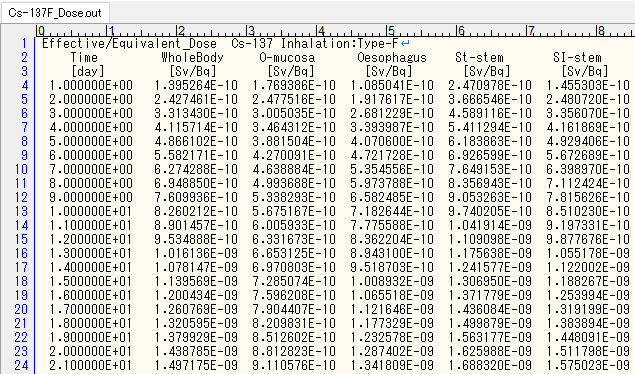
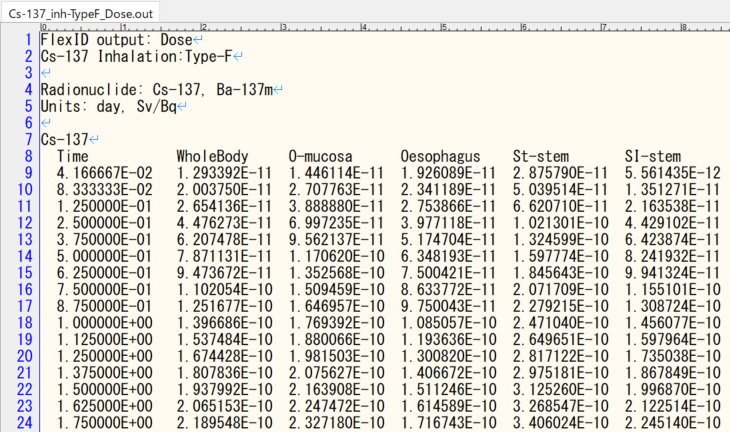
doc: 添付資料5、出力ファイルの仕様に関する記述を更新

diff --git a/docs/UserManual_Appendix-5.md b/docs/UserManual_Appendix-5.md
@@ -2,87 +2,69 @@
 
 # 1. 出力ファイルの仕様
 
-FlexIDの各出力ファイルの仕様を示す。
+FlexIDによって出力されるファイルの仕様を示す。
 
-## ① 実効線量/等価線量出力（Cs-137 F(入力画面「Output File Path」で指定)_Dose.out）
+## 1.1 計算結果出力ファイル
 
-時系列の実効線量及び臓器/組織ごとの等価線量を出力する。出力内容を表1に、出力サンプルを図1に示す。
+時系列のコンパートメントごとの計算結果を出力する。拡張子は`*.out`。ファイルの先頭部分は表1に示す構造を持つ。
 
-表1 出力内容(実効線量/等価線量出力ファイル)
+表1 出力ファイルの先頭部分
 
 |行番号|出力項目|備考|
 |--|--|--|
-|1行目|タイトル行|デフォルト表示：Effective/Equivalent_Dose<br>ユーザー選択核種：Cs-137<br>ユーザー指定：Inhalation:Type-F<br>（インプットファイルの1行目「摂取経路/化学形態等」の入力指定）|
-|2行目|臓器/組織の名称|
-|3行目|出力単位|
-|4行目以降|(1列目)摂取後経過時間\[day]<br>(2列目)実効線量<br>(3列目以降)臓器ごとの等価線量|子孫核種が存在する場合は、親核種と子孫核種の合算値を出力する。|
+|1行目|ヘッダー行|固定文字列`FlexID output:` + ファイル種別|
+|2行目|タイトル行|インプットの`title`セクションに記述された文字列|
+|3行目|空行|
+|4行目|対象核種|固定文字列`Radionuclide:` + インプットの`nuclide`セクションに記述された核種|
+|5行目|出力単位|固定文字列`Units: ` + 出力時間メッシュと出力数値の単位|
+|6行目|空行|
+
+内容については1行目の「ファイル種別」に応じて表2に示す4つの種類がある。
+
+表2 出力ファイルの種別
+
+|ファイル種別|出力項目|ファイル名末尾
+|--|--|--|
+|`Dose`|臓器/組織ごとの実効線量及び等価線量|`_Dose.out`|
+|`DoseRate`|臓器/組織ごとの実効線量率及び等価線量率|`_DoseRate.out`|
+|`RetentionActivity`|コンパートメントごとの残留放射能|`_Retention.out`|
+|`CumulativeActivity`|コンパートメントごとの累積放射能|`_Cumulative.out`|
+
+計算結果は7行目以降に出力される。
+
+なお、4行目の対象核種にて子孫核種が列挙されている場合、`Dose`と`DoseRate`では親核種と子孫核種の合算値を出力したものを親核種の計算結果として出力し、`RetentionActivity`と`CumulativeActivity`では親と子孫それぞれの核種ごとに計算結果を出力する。核種毎の出力は表3に示す構造を持つ。
+
+表3 出力ファイルの計算結果部分
+
+|行位置|出力項目|
+|--|--|
+|1行目|核種名|
+|2行目|1列目:`Time`、2列目以降:各コンパートメントの名称|
+|3行目以降|1列目:出力時間メッシュの終端、2列目以降:各コンパートメントの計算結果|
+
+FlexIDの各出力ファイルのサンプルを図1～図4に示す。
 
 ![img](images/Figure_A5-1.png)
 
-図1 出力サンプル(実効線量/等価線量出力ファイル)
-
-## ② 実効線量率/等価線量率出力（Cs-137F (入力画面「Output File Path」で指定)_DoseRate.out）
-
-時系列の毎時の実効線量率及び臓器/組織ごとの毎時の等価線量率を出力する。
-
-出力内容を表2に、出力サンプルを図2に示す。
-
-表2 出力内容(実効線量率/等価線量率出力ファイル)
-
-|行番号|出力項目|備考|
-|--|--|--|
-|1行目|タイトル行|デフォルト表示：DoseRate<br>ユーザー選択核種：Cs-137<br>ユーザー指定：Inhalation:Type-F<br>（インプットファイルの1行目「摂取経路/化学形態等」の入力指定）|
-|2行目|臓器/組織の名称|
-|3行目|出力単位|
-|4行目以降|(1列目)摂取後経過時間\[day]<br>(2列目)預託線量率<br>(3列目以降)臓器ごとの等価線量率|子孫核種が存在する場合は、親核種と子孫核種の合算値を出力する。|
+図1 実効線量/等価線量出力ファイルのサンプル
 
 ![img](images/Figure_A5-2.png)
 
-図2 出力サンプル(実効線量率/等価線量率出力ファイル)
-
-## ③ 残留放射能出力（Cs-137 F(入力画面「Output File Path」で指定)_Retention.out）
-
-時系列の臓器ごとの残留放射能を出力する。
-
-出力内容を表3に、出力サンプルを図3に示す。
-
-表3 出力内容(残留放射能出力ファイル)
-
-|行番号|出力項目|備考|
-|--|--|--|
-|1行目|タイトル行|デフォルト表示：Retention<br>ユーザー選択核種：Cs-137<br>ユーザー指定：Inhalation:Type-F<br>（インプットファイルの1行目「摂取経路/化学形態等」の入力指定）|
-|2行目|臓器/組織の名称|
-|3行目|出力単位|
-|4行目以降|(1列目)摂取後経過時間\[day]<br>(2列目以降)臓器ごとの残留放射能|子孫核種が存在する場合は、親核種の計算結果の下方に出力される。|
+図2 実効線量率/等価線量率出力ファイルのサンプル
 
 ![img](images/Figure_A5-3.png)
 
-図3 出力サンプル(残留放射能出力ファイル)
-
-## ④ 積算放射能出力（Cs-137 F(入力画面「Output File Path」で指定)_Cumulative.out）
-
-時系列の臓器ごとの累積放射能を出力する。
-
-出力内容を表4に、出力サンプルを図4に示す。
-
-表4 出力内容(積算放射能出力ファイル)
-
-|行番号|出力項目|備考|
-|--|--|--|
-|1行目|タイトル行|デフォルト表示：CumulativeActivity<br>ユーザー選択核種：Cs-137<br>ユーザー指定：Inhalation:Type-F<br>（インプットファイルの1行目「摂取経路/化学形態等」の入力指定）|
-|2行目|臓器/組織の名称|
-|3行目|出力単位|
-|4行目以降|(1列目)摂取後経過時間\[day]<br>(2列目以降)臓器ごとの積算放射能|子孫核種が存在する場合は、親核種の計算結果の下方に出力される。|
+図3 残留放射能出力ファイルのサンプル
 
 ![img](images/Figure_A5-4.png)
 
-図4 出力サンプル(積算放射能出力ファイル)
+図4 積算放射能出力ファイルのサンプル
 
-## ⑤ 計算ログ出力
+## 1.2 計算ログ出力ファイル
 
 FlexIDによる計算処理に伴う各種のエコーバックを出力する。
 
-現在は、核種毎に計算された線源領域`Other`の内訳と、計算されたS-Coefficientを出力する。
+現在は、核種毎に計算された線源領域`Other`の内訳と、計算されたS-Coefficientを出力する。拡張子は`*.log`。
 
 以下に出力サンプルを示す。
 
